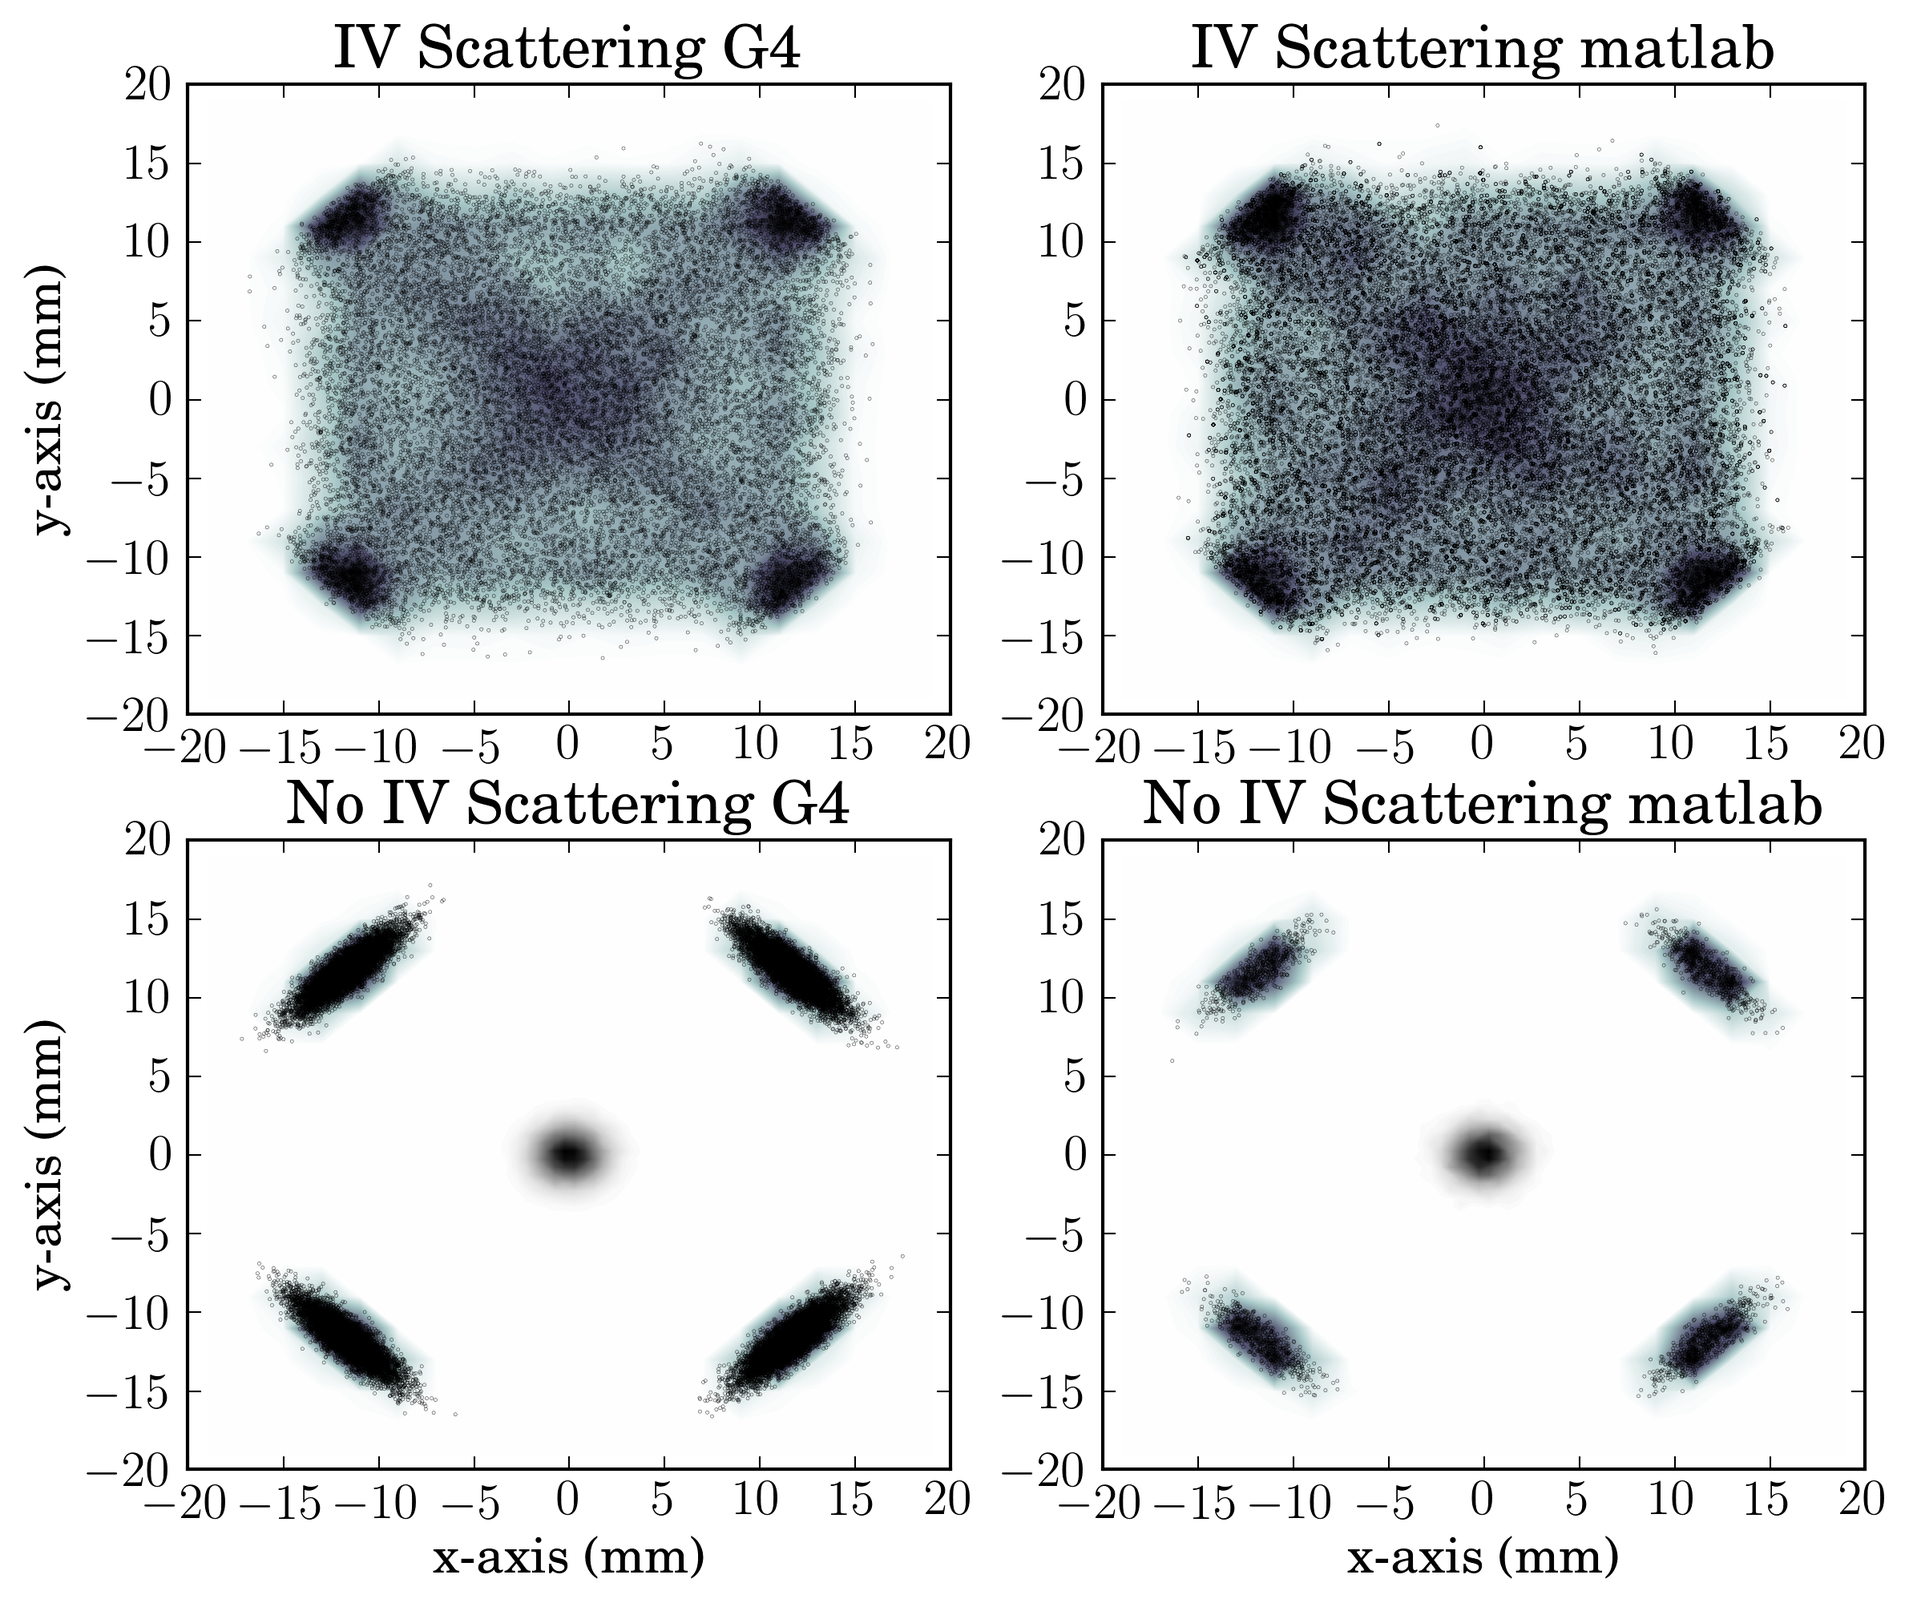
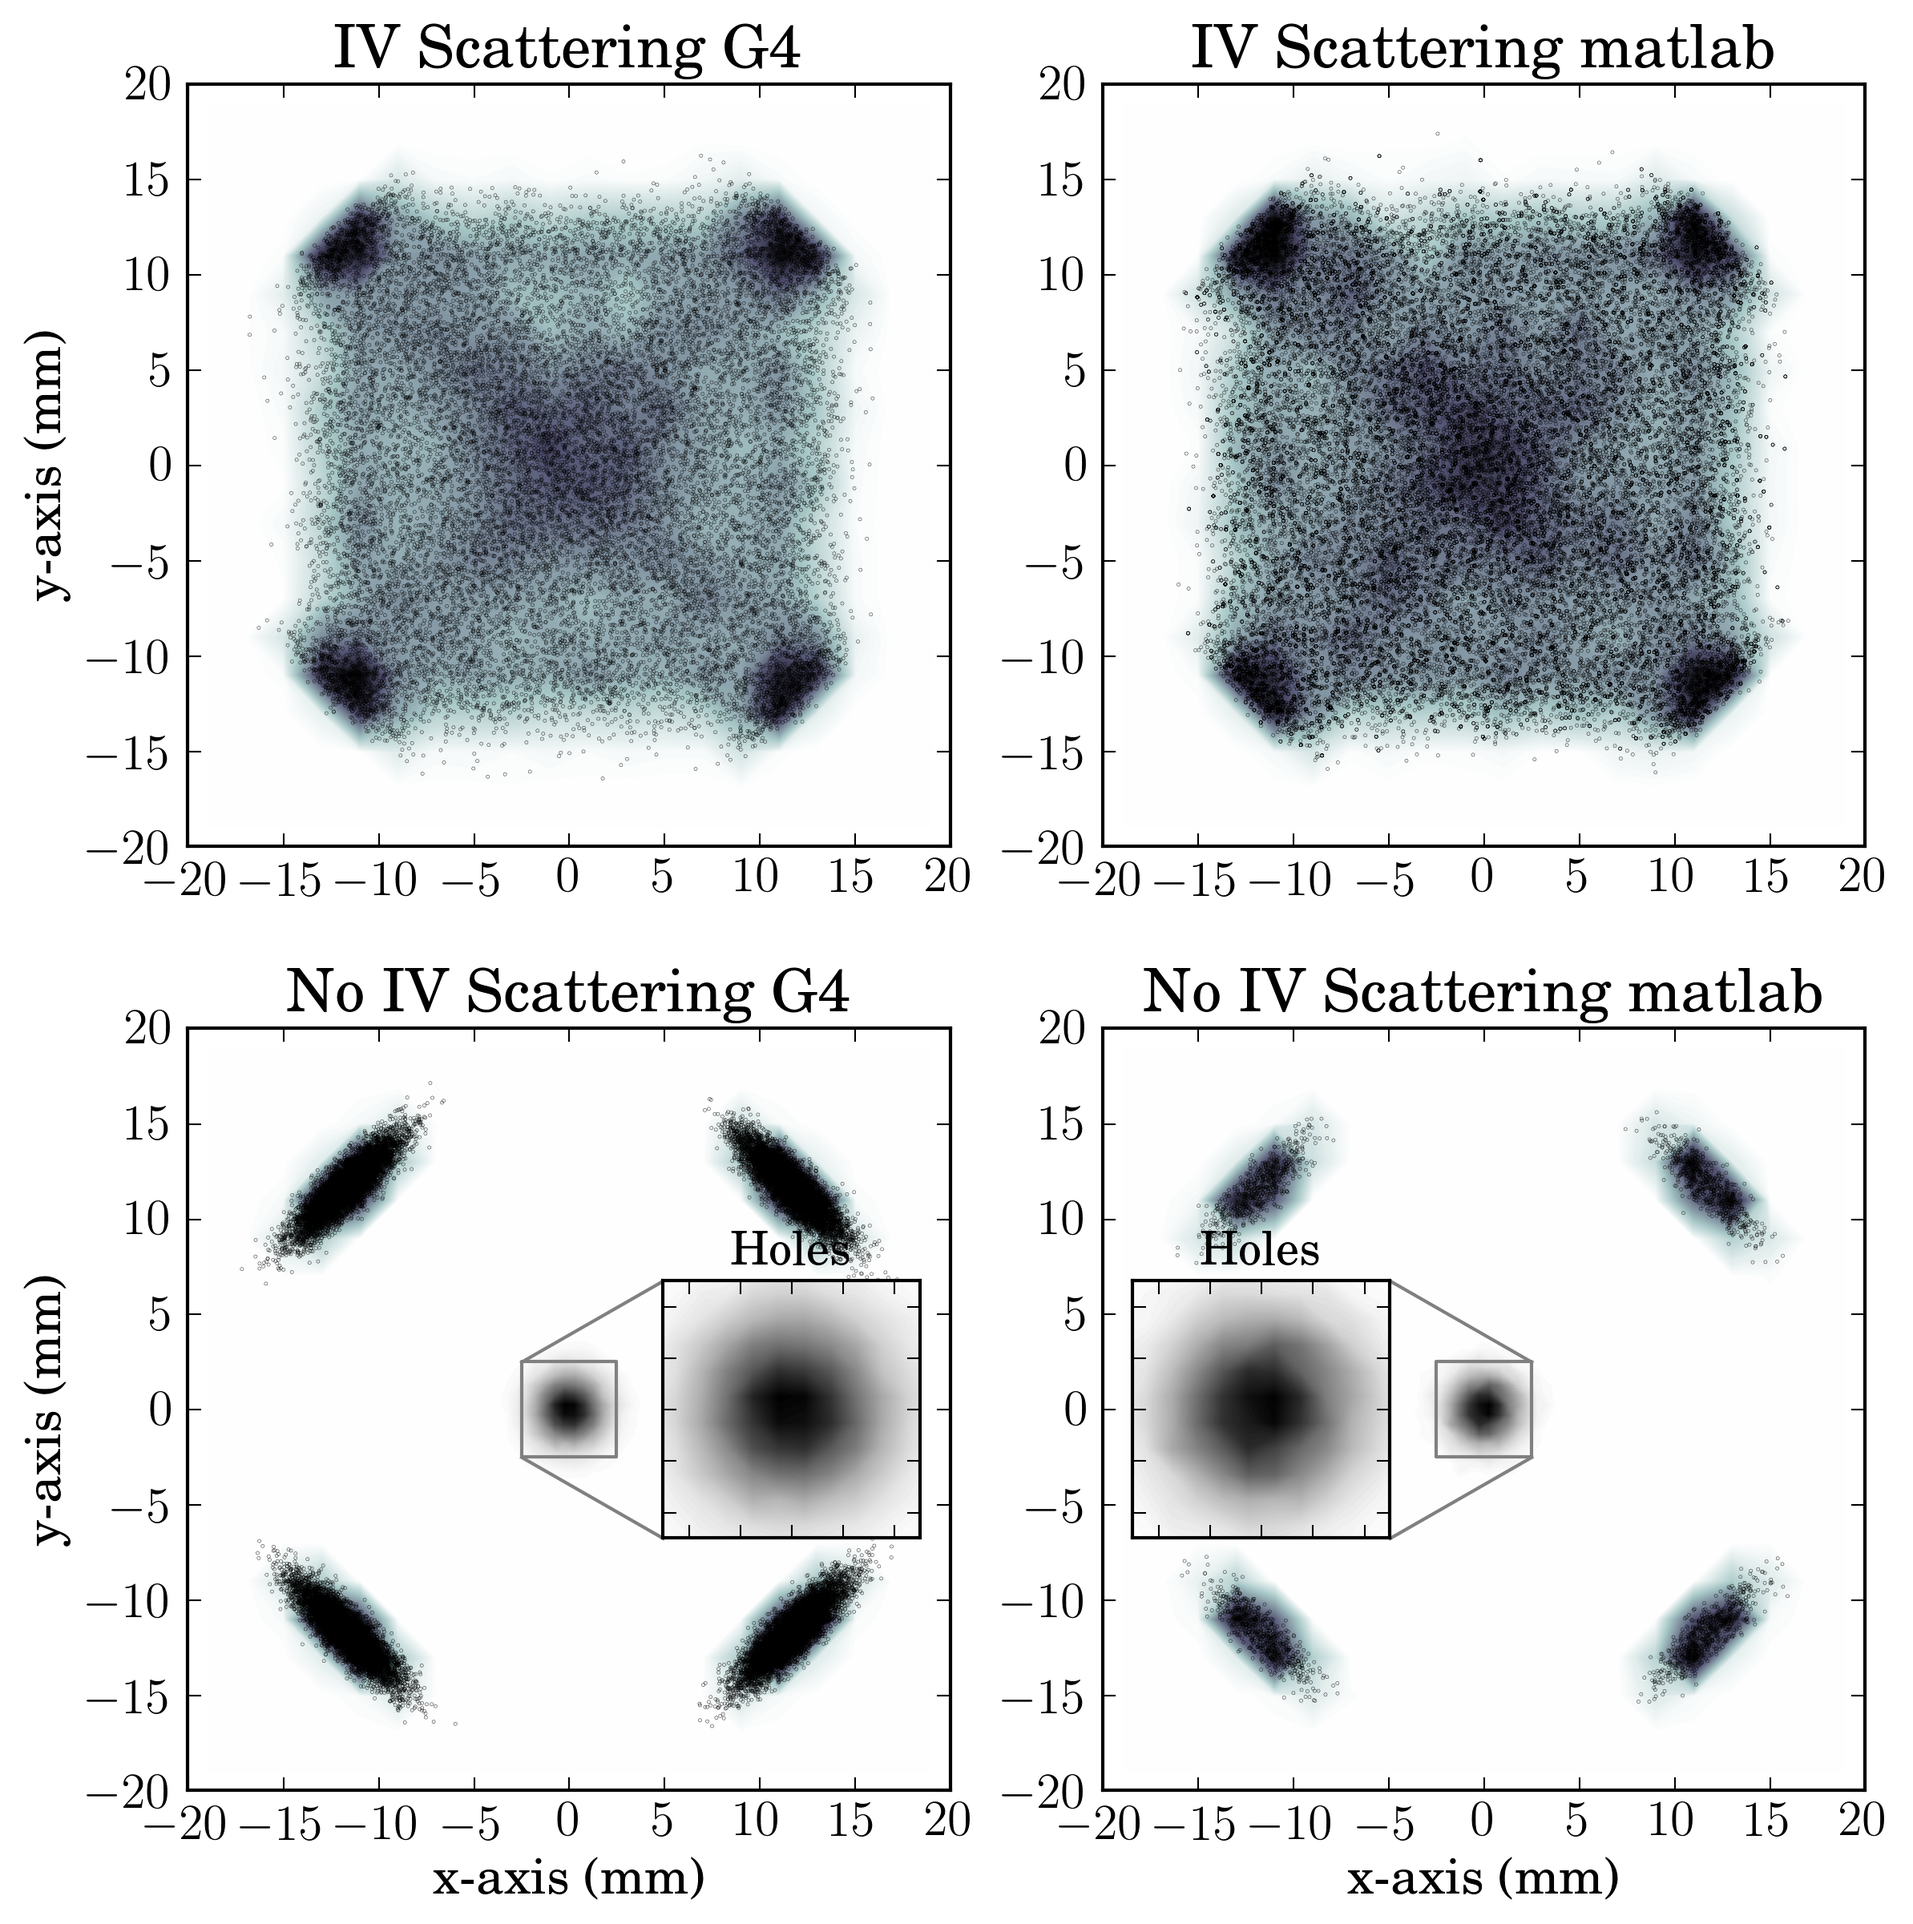
new version of IV text and figure

diff --git a/G4CMP_paper/ivscattering.tex b/G4CMP_paper/ivscattering.tex
@@ -6,4 +6,4 @@
 	\label{fig:intervalley}
 \end{figure}
 
-Electron propagation was discussed in the previous section, and one interesting feature that emerges from the equations is that electrons propagate through the crystal in one of four distinct valleys \cite{Cabrera,Leman}. Electrons are not bound to those valleys permanently, however, and can scatter between valleys. This process is known as inter-valley scattering and can occur in one of two ways: 1. an electron can scatter of the lattice or 2. of an impurity in the crystal structure \cite{iv}. Both processes are dependent on the electric field strength and for larger fields ($\gtrsim$5~V/m) lattice scattering is the dominant process, while for lower fields ($\sim$1~V/m) impurity scattering becomes dominant. The EDELWEISS \cite{edelweiss} collaboration determined the scattering rates as a function of the electric field for typical Ge crystals \cite{iv}. We use the results obtained in these studies to set the inter-valley scattering amplitude in the Geant4 framework and compare it to previous implementation of the charge transport code \cite{Cabrera,Leman}. The result of electrons and holes propagating through 2.54~cm of Ge in a 0.5~V/m electric field is shown in Figure~\ref{fig:intervalley}. The top two panels show the result with inter-valley scattering turned on while the bottom two panels show the result for inter-valley scattering turned off. The panels on the right show the results for the legacy simulation \cite{Cabrera,Leman} with somewhat less statistics than the Geant4 simulations. The bottom two panels also show the hole transport through the crystal with the result being the gray contour in the center. 
+Electron propagation as discussed in the previous section, has one particularly interesting feature that electrons propagate through the crystal in one of four distinct valleys \cite{Cabrera,Leman}. Electrons are not bound to those valleys permanently, however, and can scatter between valleys. This process is known as inter-valley scattering and occurs in one of two ways: 1. an electron scatters of the lattice or 2. of an impurity in the crystal structure \cite{iv}. The rate for both processes is dependent on the electric field strength with lattice scattering being the dominant factor in larger fields ($\gtrsim$5~V/m), while impurity scattering dominates in lower fields ($\sim$1~V/m). The EDELWEISS \cite{edelweiss} collaboration determined the scattering rates as a function of the electric field for typical Ge crystals \cite{iv}. We use the results obtained in these studies to set the inter-valley scattering amplitude in the Geant4 framework and compare it to previous implementations of the charge transport code \cite{Cabrera,Leman}. The result of electrons and holes propagating through 2.54~cm of Ge in an 0.5~V/m electric field is shown in Figure~\ref{fig:intervalley}. The top two panels show the result with inter-valley scattering turned on while the bottom two panels show the result for inter-valley scattering turned off. The panels on the right show the results for the legacy simulation \cite{Cabrera,Leman} with somewhat less statistics than the Geant4 simulations. The bottom two panels also show the hole transport through the crystal with the result being the gray contour in the center. 
